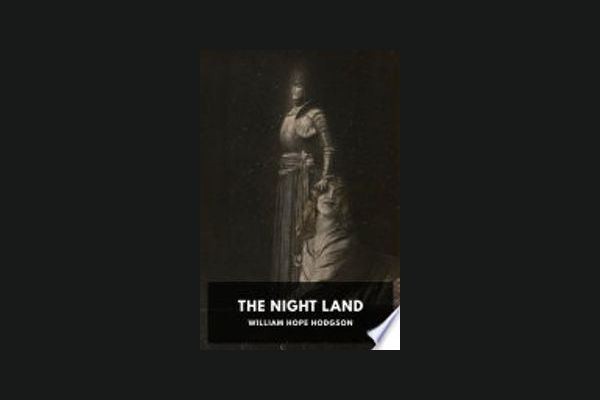
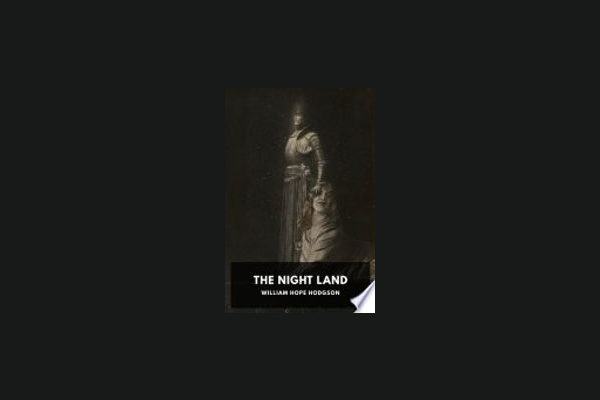
testing zoom on image for frames

Changed region(s): [[0.36, 0.15, 0.69, 0.9]]

diff --git a/utils/imageGenerator.ts b/utils/imageGenerator.ts
@@ -55,19 +55,6 @@ export const generateBookImageOG = async (book: Book) => {
     ],
   };
 
-  // const markup = (): any => html`
-  // <div style="background: #181A1A; padding: 20px; display: flex; justify-content: center; align-items: center; height: 100vh;">
-  //   <div style="width: 250px; margin: auto;">
-  //     <img style="width: 100%; margin: auto; height: auto;" src="${book.thumbnail}" />
-  //     <h3 style="color: #fff; text-align: center;">${book.title}</h3>
-  //   </div>
-  // </div>
-  // `;
-
-  // const svg = await satori(markup(), ogOptions);
-  // console.log({svg});
-  // const png = new Resvg(svg).render().asPng();
-  // console.log({png})
   const tempPath = "/tmp/image.png";
   const backgroundTemp = "/tmp/background.png"
   const endFile = "/tmp/final.png";
@@ -75,16 +62,11 @@ export const generateBookImageOG = async (book: Book) => {
   await downloadImage("https://readcast.mypinata.cloud/ipfs/QmbD72te2tUWKrfXL311Tt8CMCnc9AuSd6osX4nLB7VWZY", backgroundTemp)
   const { data, info }: any = await sharp(tempPath)
   .resize({
-    fit: sharp.fit.contain,
-    width: 200
+    width: 150
   })
   .toBuffer({ resolveWithObject: true }) 
   
-  await sharp(backgroundTemp) 
-      .resize({
-        width: 600, 
-        fit: sharp.fit.contain,
-      }) 
+  await sharp(backgroundTemp)       
       .composite([{ 
         input: data
       }])

diff --git a/src/app/api/frames/[id]/route.ts b/src/app/api/frames/[id]/route.ts
@@ -54,6 +54,7 @@ export async function GET(request: NextRequest, { params }: { params: { id: stri
    <meta name="viewport" content="width=device-width, initial-scale=1.0">
    <meta http-equiv="X-UA-Compatible" content="ie=edge">
    <meta property="fc:frame:image" content="${imgUrl}" />
+   <meta property="fc:frame:image:aspect_ratio" content="1:1" />
    <meta property="fc:frame:button:1" content="Add to ReadCast library" />
    <meta property="fc:frame:button:2" content="Upvote review" />
    <meta property="og:title" content="${review.books.title}" />
@@ -181,6 +182,7 @@ export async function POST(request: NextRequest, { params }: { params: { id: str
         <meta name="viewport" content="width=device-width, initial-scale=1.0">
         <meta http-equiv="X-UA-Compatible" content="ie=edge">
         <meta property="fc:frame:image" content="${imgUrl}" />
+        <meta property="fc:frame:image:aspect_ratio" content="1:1" />
         <meta property="fc:frame:button:1" content="${addToLibraryText}" />
         <meta property="fc:frame:button:2" content="${upvoteReviewText}" />
         <meta property="og:image" content="${imgUrl}" />
